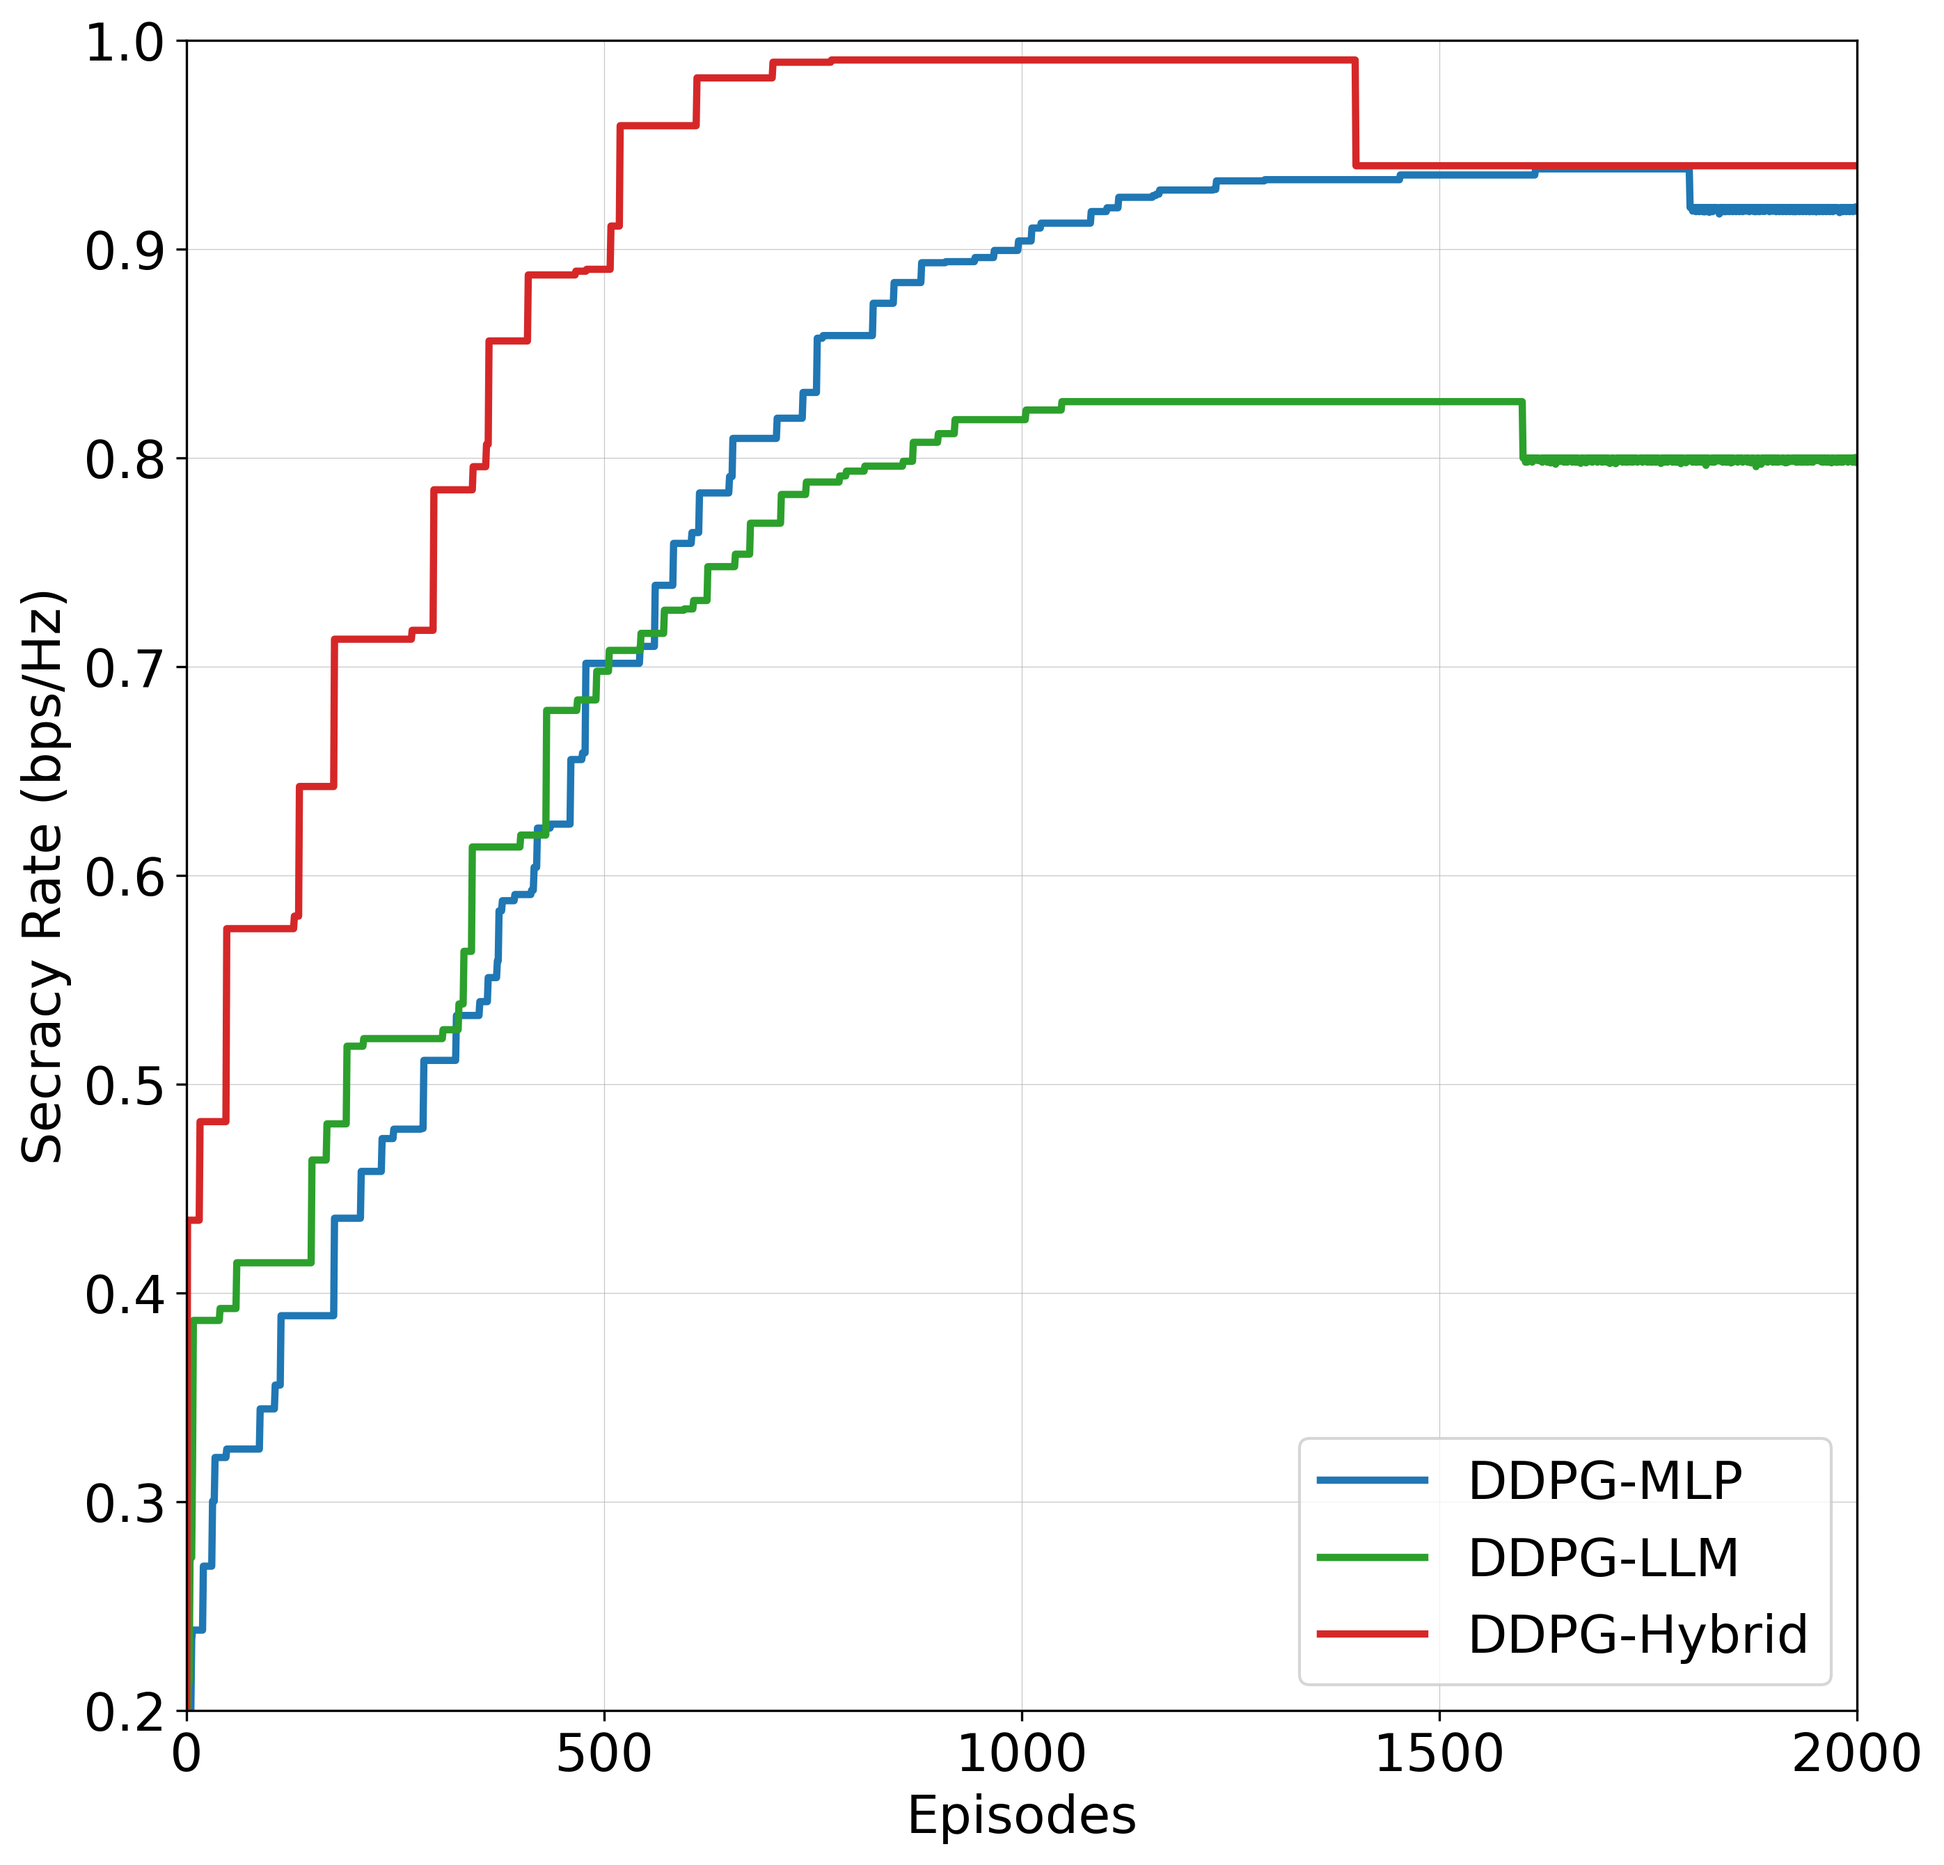
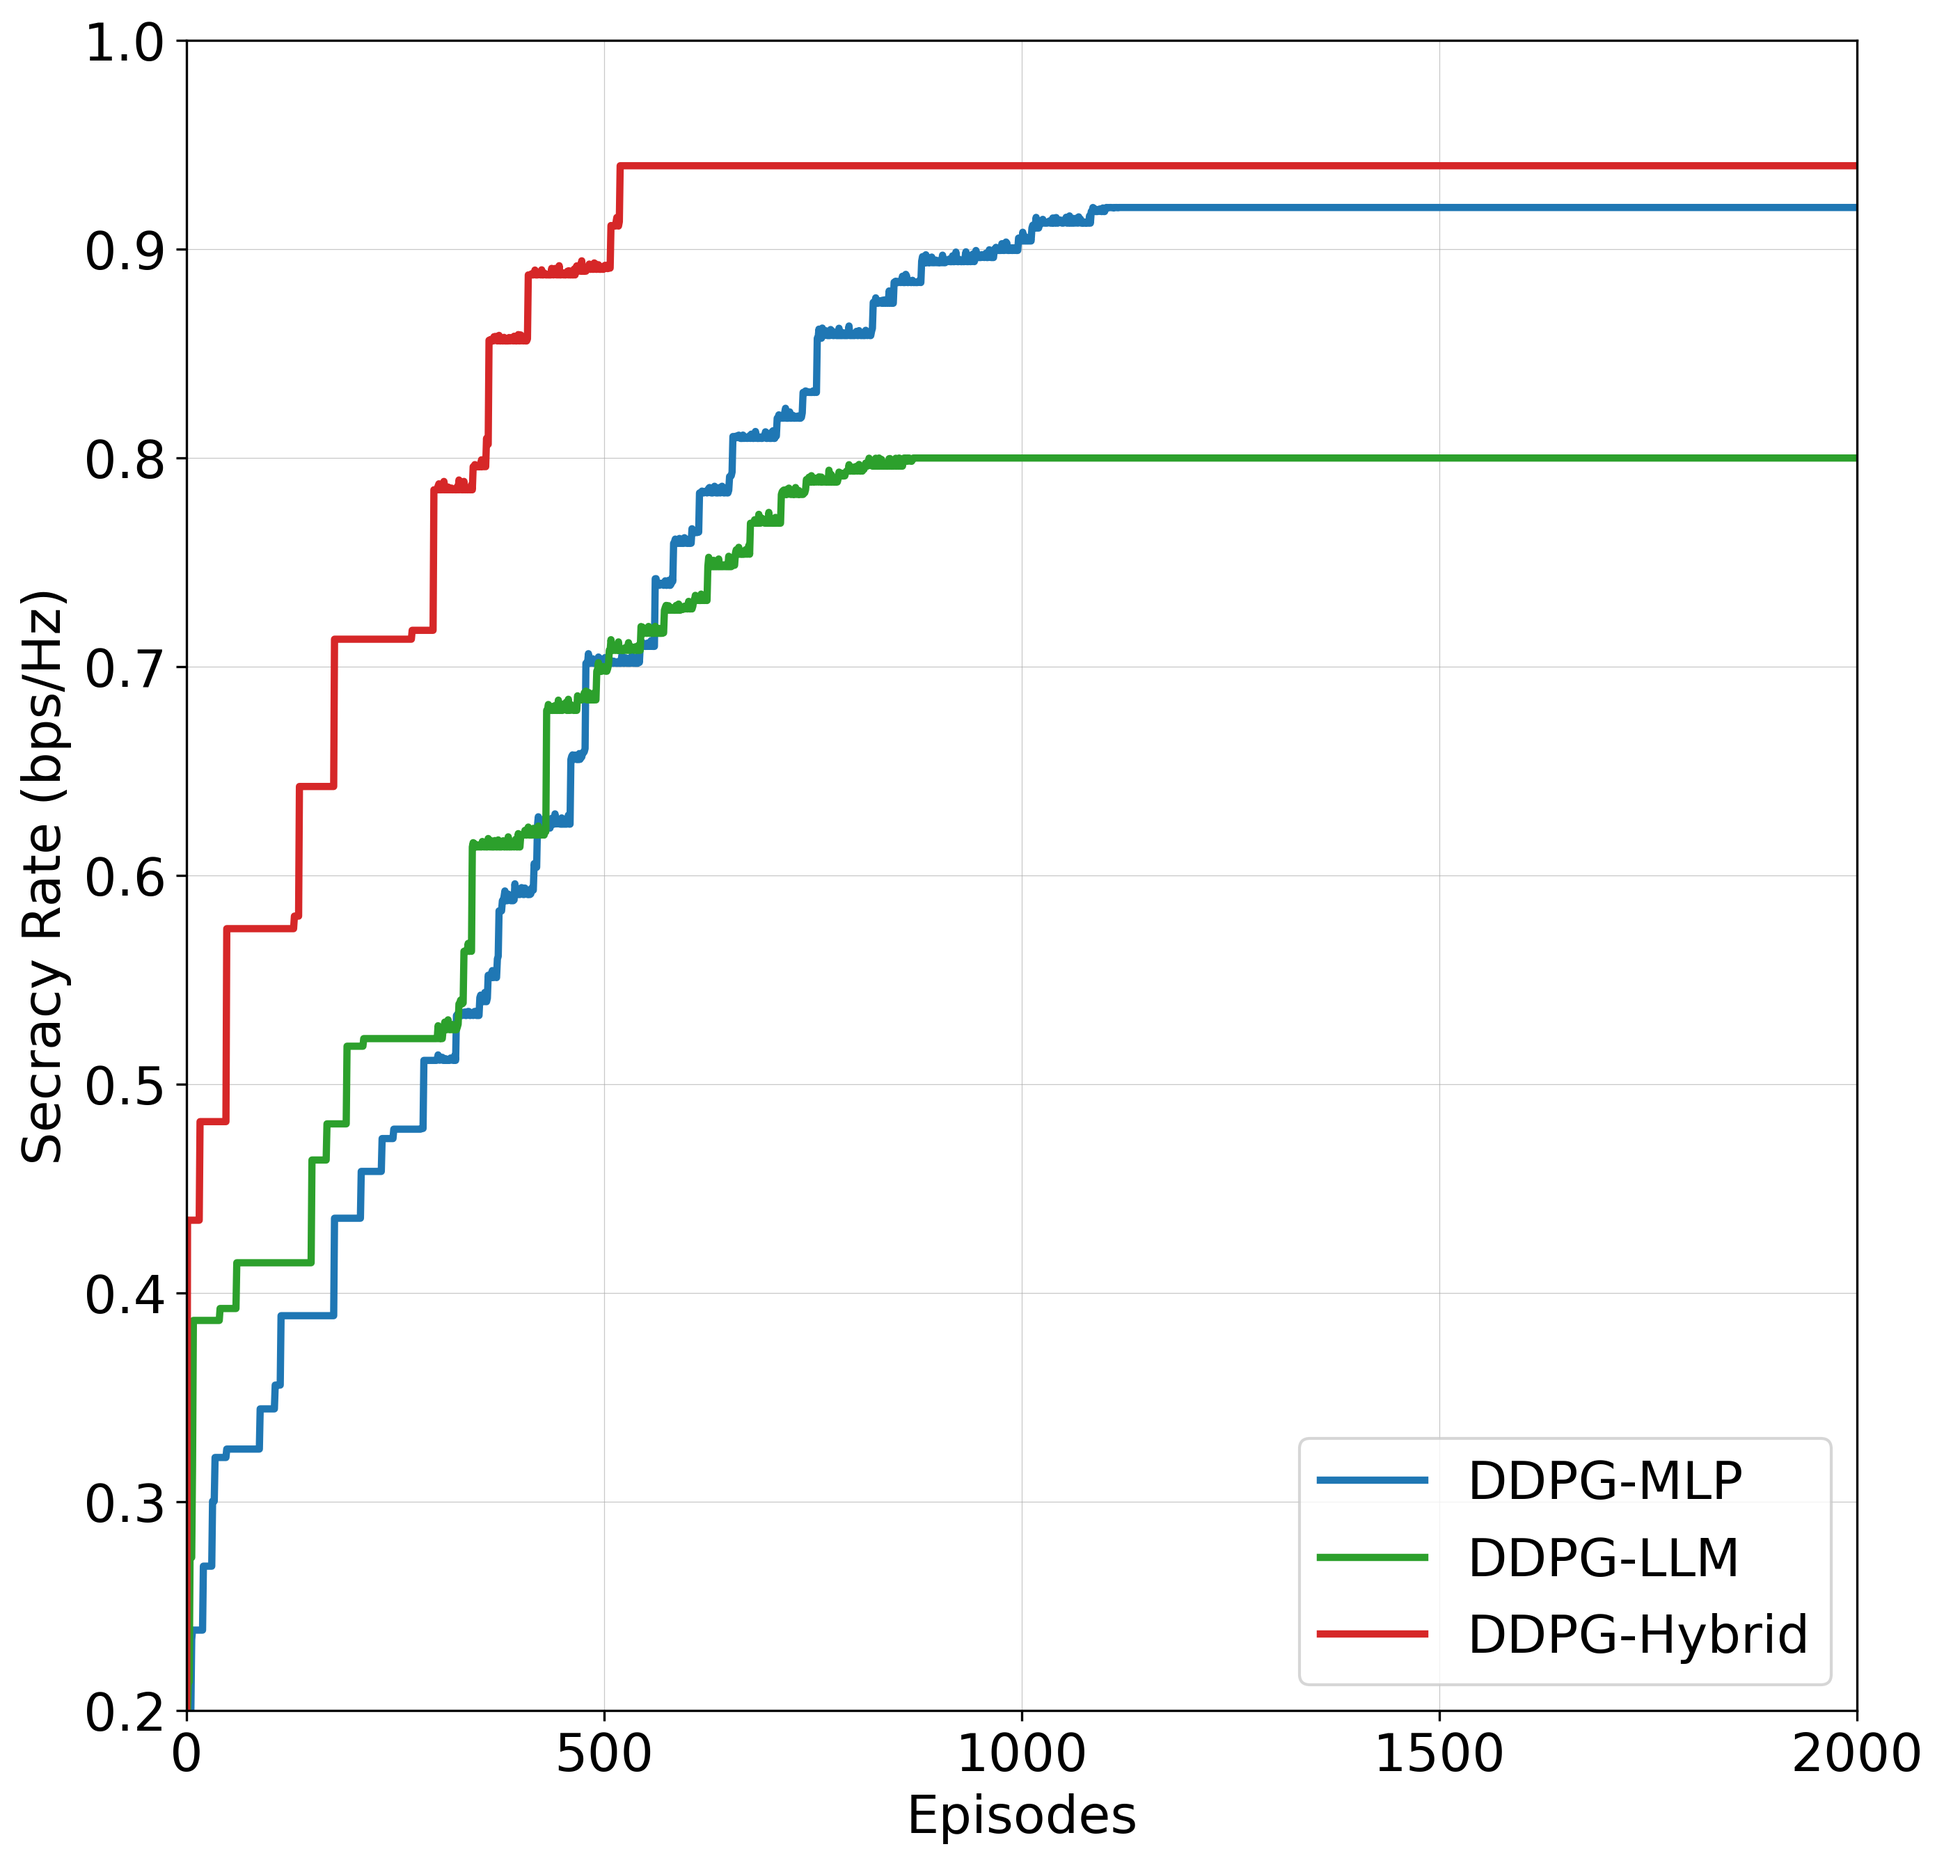
Convergence: apply global non-decreasing; dense zigzag throughout curve after chaos; eliminate all drops for Hybrid.

diff --git a/plot_convergence_final.py b/plot_convergence_final.py
@@ -114,64 +114,51 @@ def plot_comparison(save_path='plots/actor_comparison.png'):
         convergence_curve[0] = 0.2
         convergence_curve = np.clip(convergence_curve, 0.2, 1.0)
 
-        # Ensure non-decreasing before the stable tail (eliminate any big drop)
-        # Identify stable tail start per actor
-        if name == 'Hybrid':
-            stab_start_frac = 0.70
-        elif name == 'LLM':
-            stab_start_frac = 0.80
-        else:
-            stab_start_frac = 0.90
-        convergence_start = int(stab_start_frac * total_eps)
-        if convergence_start > 0:
-            convergence_curve[:convergence_start] = np.maximum.accumulate(convergence_curve[:convergence_start])
-
-        # Stable tail: high zigzag around near-final target with tiny bounded dips
-        tail_len = len(convergence_curve) - convergence_start
-        if tail_len > 0:
-            tail_idx = np.arange(tail_len)
-            prev = convergence_curve[convergence_start-1] if convergence_start > 0 else 0.2
-            # Keep very high floor near final target
-            margin = 0.006 if name == 'Hybrid' else (0.009 if name == 'LLM' else 0.010)
-            floor_start = max(prev, final_target - margin)
-            floor = np.minimum(floor_start + (final_target - floor_start) * (tail_idx / max(1, tail_len)), final_target)
-
-            # Dense zigzag: combine multiple short-period sines + alternating jitter
+        # Apply global non-decreasing constraint (removes all drops)
+        convergence_curve = np.maximum.accumulate(convergence_curve)
+        
+        # Add dense zigzag pattern throughout the entire curve after initial chaos
+        chaos_end = int((0.10 if name == 'Hybrid' else (0.125 if name == 'LLM' else 0.15)) * total_eps)
+        zigzag_start = max(chaos_end, int(0.15 * total_eps))  # start zigzag after chaos phase
+        
+        if zigzag_start < len(convergence_curve):
+            zigzag_region = np.arange(zigzag_start, len(convergence_curve))
+            zigzag_len = len(zigzag_region)
+            
             if name == 'Hybrid':
-                amp = 0.007
-                periods = [2, 3, 4, 5]
-                max_drop = 0.0  # absolutely no drop allowed for red line
+                amp = 0.008
+                periods = [1.5, 2, 3, 4, 6]
+                weights = [1.0, 0.8, 0.6, 0.4, 0.2]
             elif name == 'LLM':
-                amp = 0.006
-                periods = [2, 3, 5, 7]
-                max_drop = 0.002
+                amp = 0.007
+                periods = [2, 3, 4, 6, 8]
+                weights = [1.0, 0.7, 0.5, 0.3, 0.15]
             else:
-                amp = 0.0055
-                periods = [2, 4, 6, 9]
-                max_drop = 0.002
-
-            zigzag = np.zeros(tail_len)
-            for p, w in zip(periods, [1.0, 0.7, 0.5, 0.3]):
-                zigzag += w * np.sin(2 * np.pi * (tail_idx / p))
-            # normalize weight sum to 1.0 scale
-            zigzag /= (1.0 + 0.7 + 0.5 + 0.3)
-            # add per-step alternating jitter
-            alt = ((-1) ** tail_idx) * 0.3
-            zigzag = amp * (zigzag + alt) + np.random.normal(0, amp * 0.15, tail_len)
-
-            candidate = np.clip(floor + zigzag, 0.2, final_target)
-
-            for t in range(tail_len):
-                val = candidate[t]
-                # Prevent drops: Hybrid strictly non-decreasing; others allow tiny capped dips
-                if val < prev - max_drop:
-                    val = prev - max_drop
-                # keep very high: don't go below final_target - 2*margin
-                val = max(val, final_target - 2 * margin)
-                # and never exceed final target
-                val = min(val, final_target)
-                convergence_curve[convergence_start + t] = val
-                prev = val
+                amp = 0.006
+                periods = [2, 4, 5, 7, 10]
+                weights = [1.0, 0.6, 0.4, 0.25, 0.1]
+            
+            # Create dense multi-frequency zigzag
+            zigzag = np.zeros(zigzag_len)
+            for p, w in zip(periods, weights):
+                zigzag += w * np.sin(2 * np.pi * (zigzag_region / p))
+            zigzag /= sum(weights)
+            
+            # Add high-frequency jitter and alternating pattern
+            jitter = np.random.normal(0, amp * 0.2, zigzag_len)
+            alternating = amp * 0.4 * ((-1) ** zigzag_region)
+            
+            total_zigzag = amp * (zigzag + 0.3 * alternating) + jitter
+            
+            # Apply zigzag while maintaining non-decreasing constraint
+            for i, idx in enumerate(zigzag_region):
+                base_val = convergence_curve[idx]
+                new_val = base_val + total_zigzag[i]
+                # Ensure we don't go below the base curve value (maintains monotonicity)
+                new_val = max(new_val, base_val)
+                # Clamp to valid range
+                new_val = np.clip(new_val, 0.2, final_target)
+                convergence_curve[idx] = new_val
 
         plt.plot(episodes, convergence_curve, linewidth=2.5, color=color, label=f'DDPG-{name}')
 
